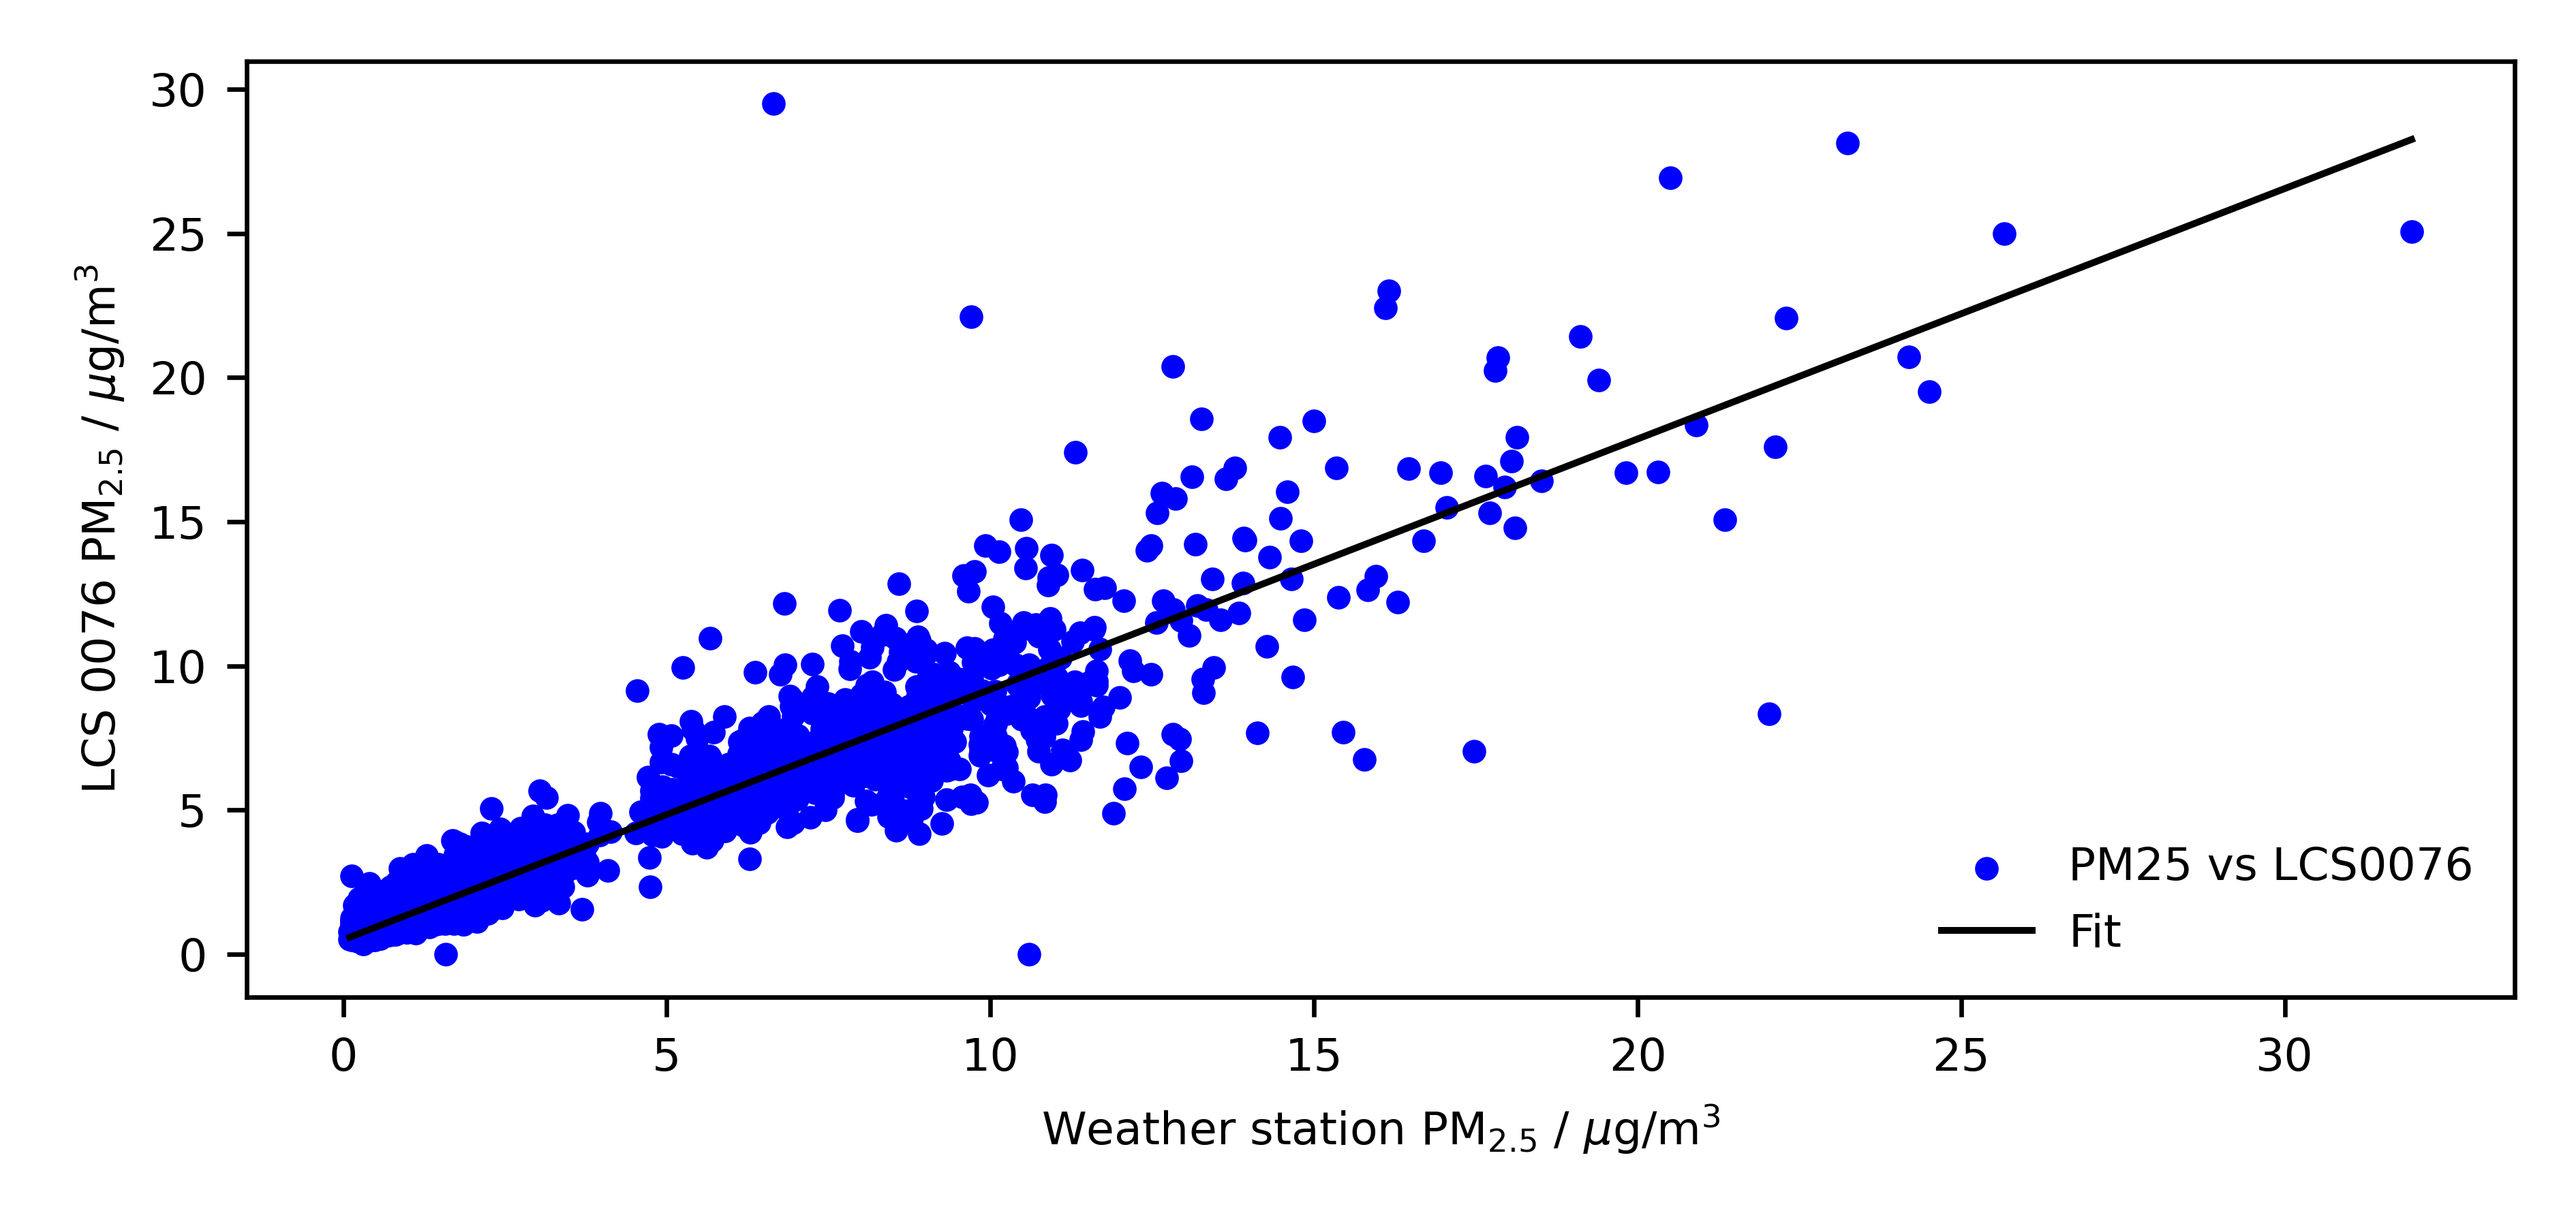
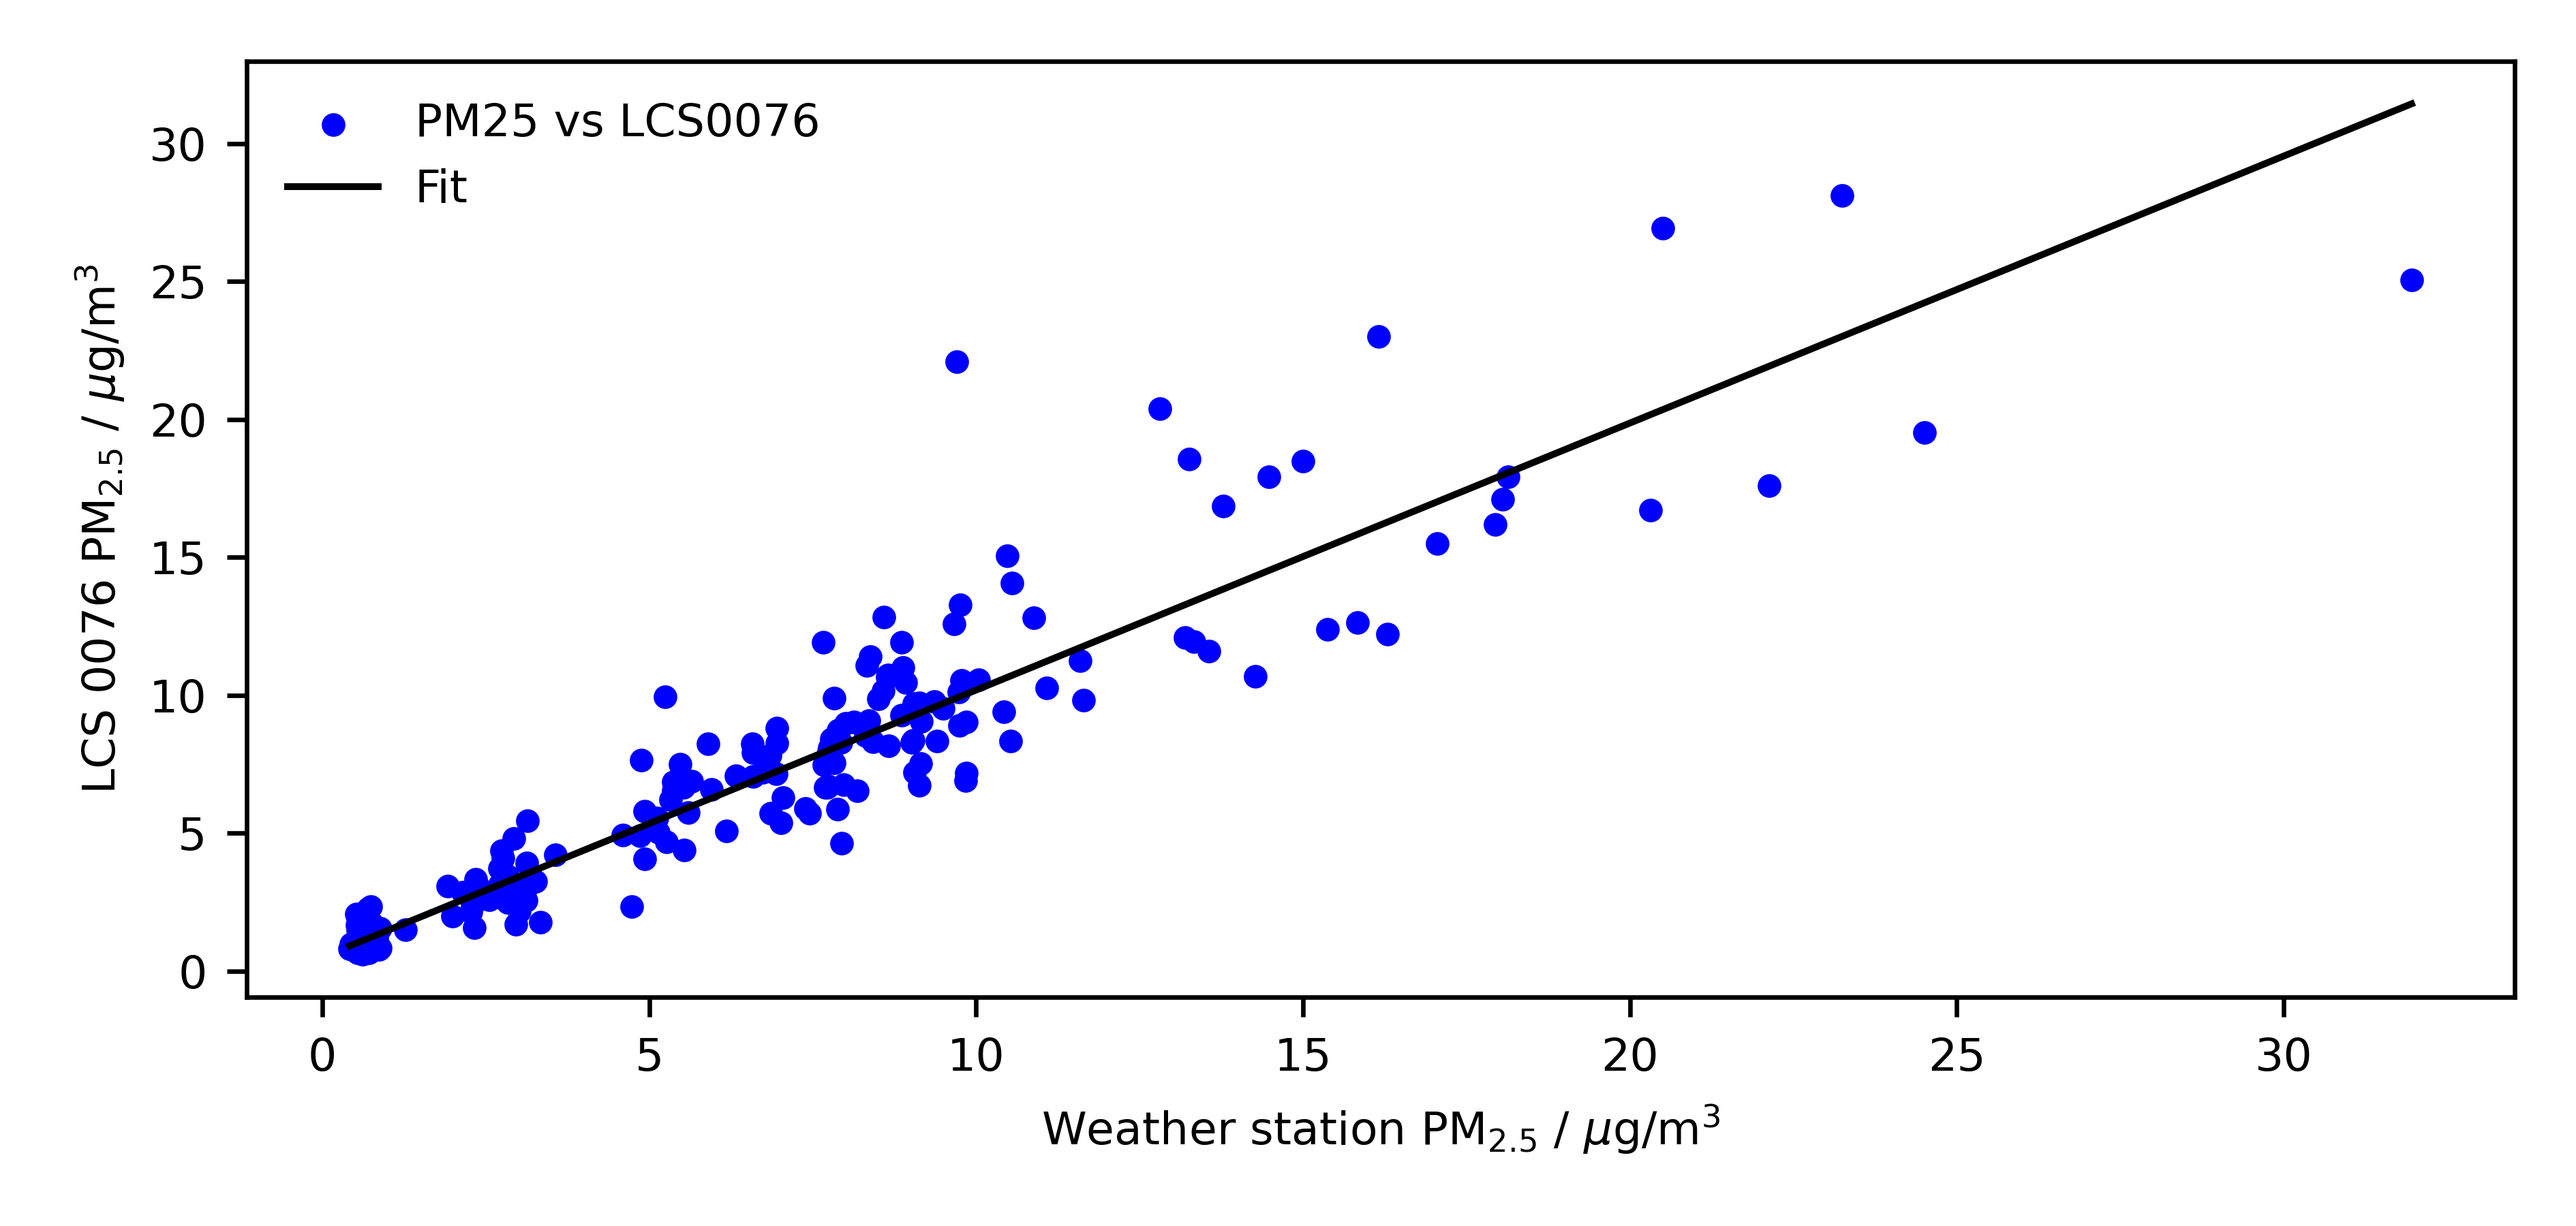
update

diff --git a/functions.py b/functions.py
@@ -389,18 +389,13 @@ def plot_reference_LCS(ax, data_dict, dict_keys, start_time, end_time, concentra
     df_2 = pd.DataFrame({'timestamp': filtered_time_2, dict_keys[1]: filtered_conc_2})
 
     # Now let's reapply the merging logic and see if it works
-    merged_df = pd.merge(
-    data['PM25'][['timestamp', 'Conc']],
-    data['LCS0076'][['timestamp', 'SPS30_PM2.5']],
-    on='timestamp', 
-    how='inner'
-    )
+    merged_df = pd.merge(df_1, df_2, on='timestamp', how='inner')
 
     # Plot a scatter plot of the two concentrations
-    ax.scatter(merged_df[concentration[0]], merged_df[concentration[1]], s=10, c='blue', label=f'{dict_keys[0]} vs {dict_keys[1]}')
+    ax.scatter(merged_df[dict_keys[0]], merged_df[dict_keys[1]], s=10, c='blue', label=f'{dict_keys[0]} vs {dict_keys[1]}')
 
-    x_plot = np.linspace(min(merged_df[concentration[0]]), max(merged_df[concentration[0]]), 100)
-    a, b, squares, ndof, R2 = linear_fit(merged_df[concentration[0]], merged_df[concentration[1]], 1, 1)
+    x_plot = np.linspace(min(merged_df[dict_keys[0]]), max(merged_df[dict_keys[0]]), 100)
+    a, b, squares, ndof, R2 = linear_fit(merged_df[dict_keys[0]], merged_df[dict_keys[1]], 1, 1)
     y_fit = a*x_plot + b
 
     ax.plot(x_plot, y_fit, label = 'Fit', color = 'k', lw = 1.2)
